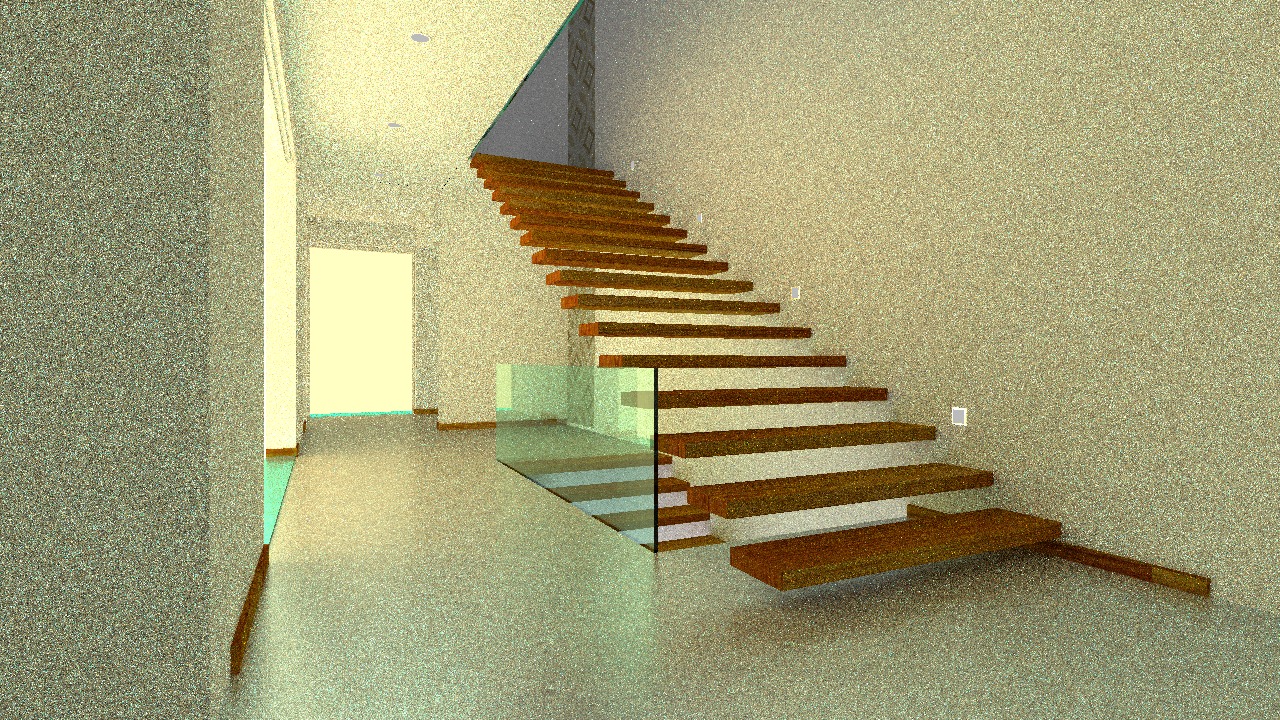
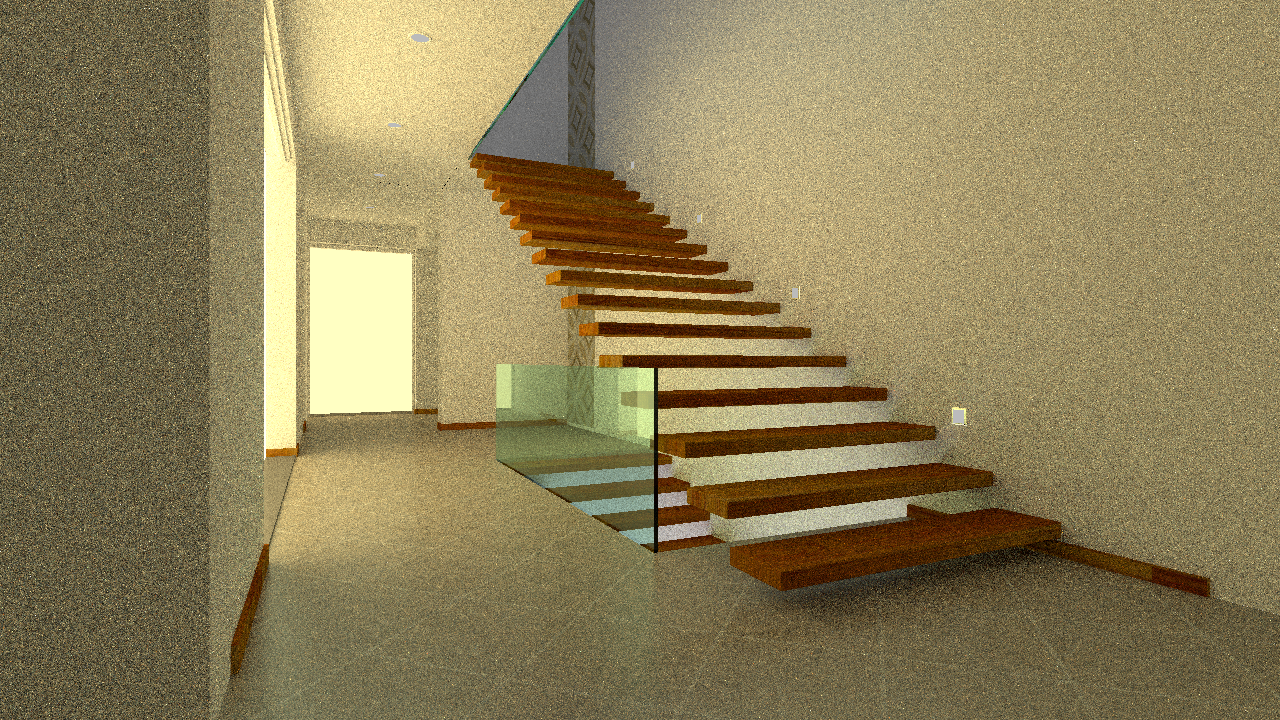
finish all outputs!

diff --git a/cg-final/scene/material.hpp b/cg-final/scene/material.hpp
@@ -43,9 +43,12 @@ struct Phong_Material: Material
 		if (diffuse_texture != nullptr) {
 			auto uv = hit.hit_triangle->get_uv(hit.getIntersectionPoint());
 			auto tex_color = diffuse_texture->get_color(uv);
+			/*if (name == "FloorTiles") {
+				std::cout << tex_color.x << std::endl;
+			}*/
 			out_diffuse *= tex_color;
 		}
-		return out_diffuse * light_color * ad / 3.1415926f + specular * light_color * an * (shininess + 2) / 2.f / 3.1415926f;
+		return out_diffuse * light_color * ad / 3.1415926f + specular * light_color * an * (shininess + 8) / 8.f / 3.1415926f;
 	}
 };
 

diff --git a/cg-final/cg-final.cpp b/cg-final/cg-final.cpp
@@ -45,7 +45,7 @@ int main()
     float tmin = camera.get_t_min();
     glm::vec3 n0(0, 0, 0);
 
-    int sample_num = 3;
+    int sample_num = 8;
     auto sample_offset = glm::vec2(1.f / sample_num, 1.f / sample_num);
 	for (int i = 0; i < width; i++) {
 		for (int j = 0; j < height; j++) {
